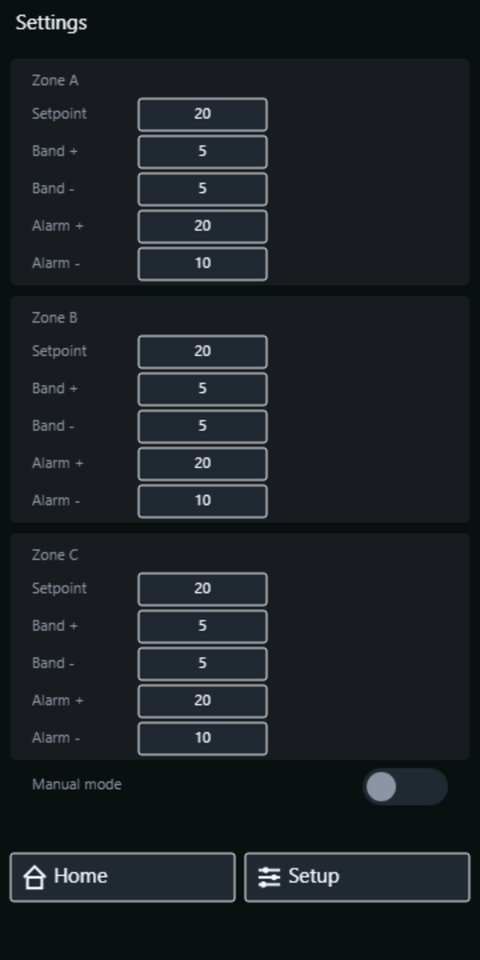
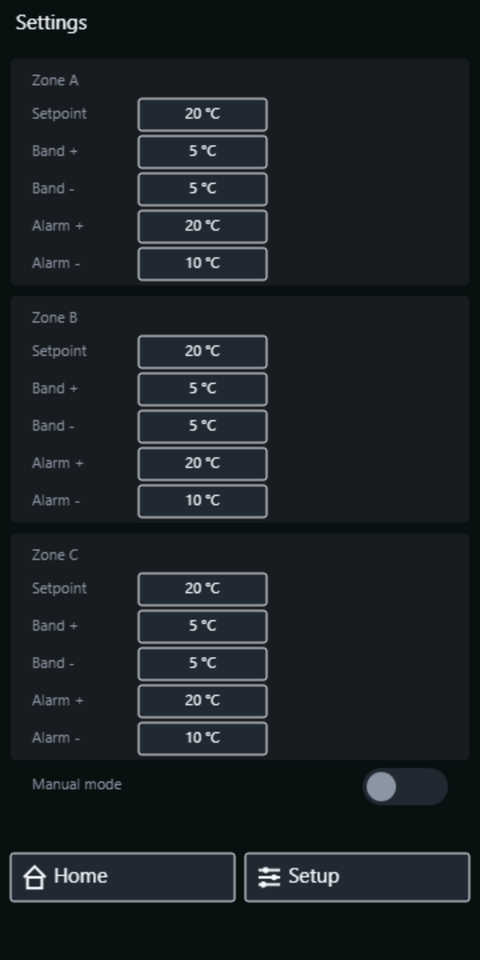
the manual becomes the Hot tank - cosmetics, processors, SCADA, numbers
The page tells its real story now: a three-zone heated bath from
cosmetics production. The opening table answers what everyone asks
first - which processor, how much memory, what display, what I/O -
for both boards. A new SCADA over MQTT chapter documents the twenty
topics, the /set command path with the write-flag permission, the
public-broker experiment with its warning, and the measured cost
table: the control cycle under SCADA load, to the microsecond, with
zero overruns. The Settings screenshots show the degC units on the
phone as well.

diff --git a/docs/three-zone-thermostat.md b/docs/three-zone-thermostat.md
@@ -1,19 +1,28 @@
-# Three-zone thermostat
+# Hot tank
 
-A complete, working temperature-control system on two boards: an
-inoCORE32-TM8.6 measuring three PT100 probes and switching three SSR
-heater outputs, and a stepHMI32.4 touch panel operating it. The two
-find each other over their own WiFi — no router, no infrastructure —
-and everything an operator or an integrator needs to know about the
-result is on this page: every screen, every state, every mode, every
-setting and every protection.
+A complete, working control system for a **hot tank in cosmetics
+production** — a three-zone heated bath of the kind that keeps
+creams, emulsions and oils at their working temperature. One board
+sits at the tank: it measures three PT100 probes, one per heating
+zone, and switches three SSR heater outputs. A touch panel operates
+it, a phone mirrors it, and an MQTT uplink reports the whole tank to
+a SCADA anywhere in the world. The two boards find each other over
+their own WiFi — no router, no plant infrastructure required — and
+everything an operator or an integrator needs to know is on this
+page: every screen, every state, every mode, every setting, every
+protection and the measured cost of all of it.
 
 The projects are installed with the editor in `examples\wifi_pair`:
 
-| | Board | Role | Project file |
-|:---|:---|:---|:---|
-| **At the process** | inoCORE32-TM8.6 | measures, regulates, owns the heaters, raises the WiFi | `tm8_6_wifi_zones.yaml` |
-| **At the operator** | stepHMI32.4 | displays, commands, holds the settings pages | `stephmi_wifi_panel.yaml` |
+| | inoCORE32-TM8.6 — at the tank | stepHMI32.4 — at the operator |
+|:---|:---|:---|
+| Role | measures, regulates, owns the heaters, raises the WiFi, reports to SCADA | displays, commands, holds the settings pages |
+| Processor | ESP32-PICO-V3-02, 2× 240 MHz | ESP32-S3, 2× 240 MHz |
+| Memory | 8 MB flash, 2 MB PSRAM | 16 MB flash, 8 MB PSRAM |
+| Display | none — WEBview to a phone | 4,3" 480×272, SSD1963, capacitive touch |
+| Process I/O | 3× MAX31865 (PT100), 3× SSR 240 V/16 A | — |
+| Buses | WiFi (AP + uplink), CAN, RS485, SPI | WiFi, CAN, RS485 |
+| Project file | `tm8_6_wifi_zones.yaml` | `stephmi_wifi_panel.yaml` |
 
 !!! note "The design rule underneath everything"
     The zone board **owns its outputs**. The panel asks — a setpoint,
@@ -32,6 +41,12 @@ always **192.168.4.1**, which is why the process board hosts: the
 address the panel polls can never go stale. Over that link runs
 Modbus TCP — the panel reads the temperatures and states ten times a
 second and writes settings and commands the moment they change.
+
+The zone board's radio wears two hats at once (`mode: apsta`): the
+same chip that hosts the pair's private network also joins the plant
+WiFi as a station. That uplink carries the [MQTT reporting](#scada-over-mqtt)
+— and nothing else depends on it: unplug the plant network and the
+tank, the panel and every protection keep running exactly as before.
 
 Two heartbeats ride along:
 
@@ -322,6 +337,59 @@ it within a second.
 
 ---
 
+## SCADA over MQTT
+
+The tank reports itself to the outside world over MQTT — the uplink
+half of the zone board's radio carries it. Twenty variables publish
+under `ctrl32/hottank/` as plain per-variable topics, at most once a
+second and **only when a value changed**:
+
+| Topics | Content |
+|:---|:---|
+| `temp_a/b/c` | the three zone temperatures |
+| `sp_a/b/c` | the setpoints (writable) |
+| `mode_man`, `cmd_a/b/c` | the mode and the manual commands (writable) |
+| `heat_a/b/c` | the REAL heater states |
+| `trip_hi_*`, `trip_lo_*` | the alarm trips |
+| `link_ok` | the panel link |
+| `status` | `online`, and a broker-kept last will when the board drops |
+
+A SCADA writes by publishing to `<topic>/set` — for example `20` to
+`ctrl32/hottank/sp_a/set`. The same rule as everywhere else in this
+system: **the write flag in the project is the permission**, a
+command on anything not marked writable is refused, and the board
+republishes the accepted value so the SCADA sees what actually
+happened, not what it asked for.
+
+!!! warning "The bench ran a public broker on purpose"
+    This page's measurements were taken against a public internet
+    broker, precisely to see the behaviour with a SCADA "half a
+    world away". A production site keeps the broker on its own
+    network — the MQTT credentials travel in plain text and the
+    board does not belong on the open internet.
+    See [MQTT telemetry](mqtt.md).
+
+### The measured cost
+
+Every number below is the board's own diagnostic line (`cycle` =
+the 10 ms control cycle: current / min / max in µs), captured on the
+running tank:
+
+| State | Cycle (µs) | Overruns | Heap low mark |
+|:---|:---:|:---:|:---:|
+| pair only — no uplink, no MQTT | 93 / 77 / 164 | 0 | 2 120 kB |
+| + WiFi uplink + MQTT connected, quiet | 109 / 77 / 449 | 0 | 2 102 kB |
+| + SCADA load: 4 writes/s + full echo, 60 s (240 commands, 341 messages) | 108 / 77 / 449 | 0 | 2 102 kB |
+
+Reading it: the uplink and the broker connection cost ~16 µs of an
+average cycle (0.16 % of the period) and ~18 kB of memory, once. The
+SCADA hammering the tank with commands cost **nothing measurable**
+— the communication runs beside the control, never inside it, and
+the cycle never overran. The panel's numbers did not move at all
+(38 / 19 / 60 µs throughout). This is the degradation rule
+(*logic > communication > graphics*) holding under a deliberate
+stress, measured rather than promised.
+
 ## Power loss and restarts
 
 | What | Survives a zone-board power cut? |
@@ -416,6 +484,7 @@ panel again.
 | | |
 |:---|:---|
 | [Two boards over Modbus](tutorial-modbus-pair.md) | the same pair's simpler ancestor, over the plant network |
+| [MQTT telemetry](mqtt.md) | the mechanics behind the SCADA chapter |
 | [What Modbus is](modbus-basics.md) | the protocol behind the register map |
 | [States and motion](states-motion.md) | the mechanism behind the banner and the mode-dependent switches |
 | [Finding your boards](find-devices.md) | locating both halves from the editor |

diff --git a/docs/tutorials.md b/docs/tutorials.md
@@ -10,10 +10,11 @@ together across two real boards:
   measuring temperatures, an ethernet master displaying and
   commanding them, and the same interlock written in all three
   languages.
-- [Three-zone thermostat](three-zone-thermostat.md) — the complete
-  system that grows out of it: router-less WiFi, per-zone
-  thermostats, AUTO/MANUAL, a code-protected settings page, link
-  protection and a full technical manual of every screen and state.
+- [Hot tank](three-zone-thermostat.md) — the complete system that
+  grows out of it: a three-zone heated bath from cosmetics
+  production, router-less WiFi, per-zone thermostats, AUTO/MANUAL, a
+  code-protected settings page, link protection, an MQTT uplink to a
+  SCADA and a full technical manual with measured load figures.
 
 They are deliberately not impressive. A project that demonstrates six
 features at once teaches none of them, because you cannot tell which

diff --git a/docs/tutorial-modbus-pair.md b/docs/tutorial-modbus-pair.md
@@ -261,6 +261,6 @@ the master's switch flips.
 |:---|:---|
 | [What Modbus is](modbus-basics.md) | the protocol behind this page |
 | [Modbus](modbus.md) | the full configuration reference — catalog, limits, RTU |
-| [Three-zone thermostat](three-zone-thermostat.md) | where this pair grows into a complete regulated system |
+| [Hot tank](three-zone-thermostat.md) | where this pair grows into a complete regulated system |
 | [Finding your boards](find-devices.md) | the scanner used in step 2 |
 | [States and motion](states-motion.md) | making those zone cards move |
